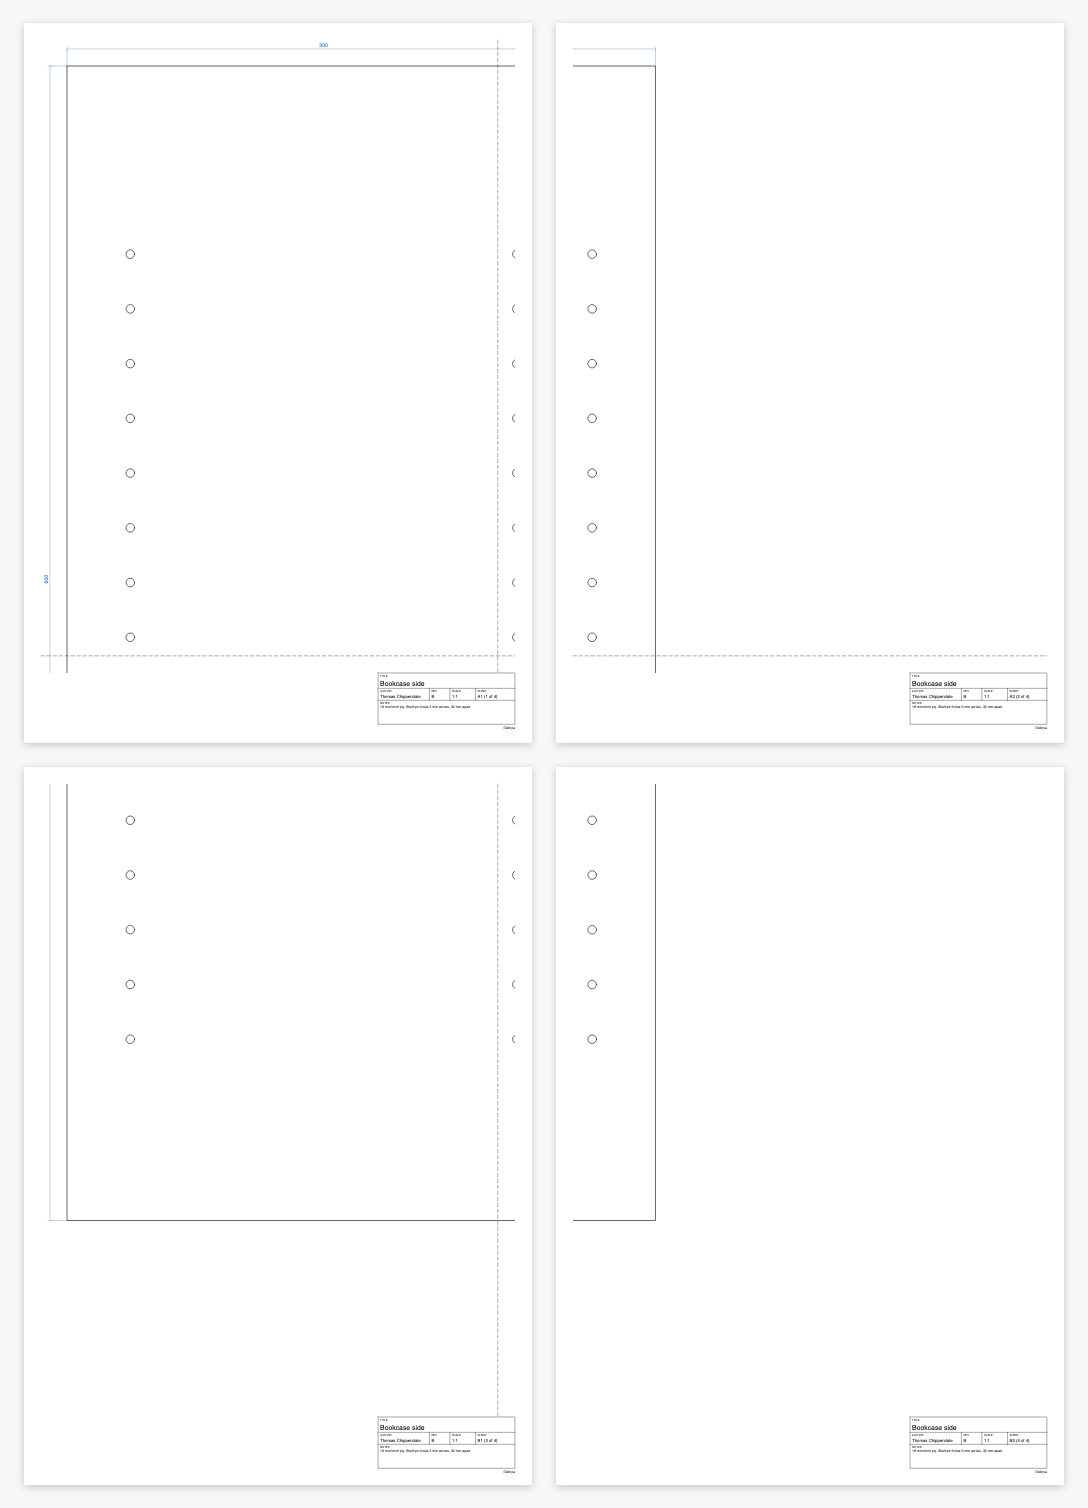
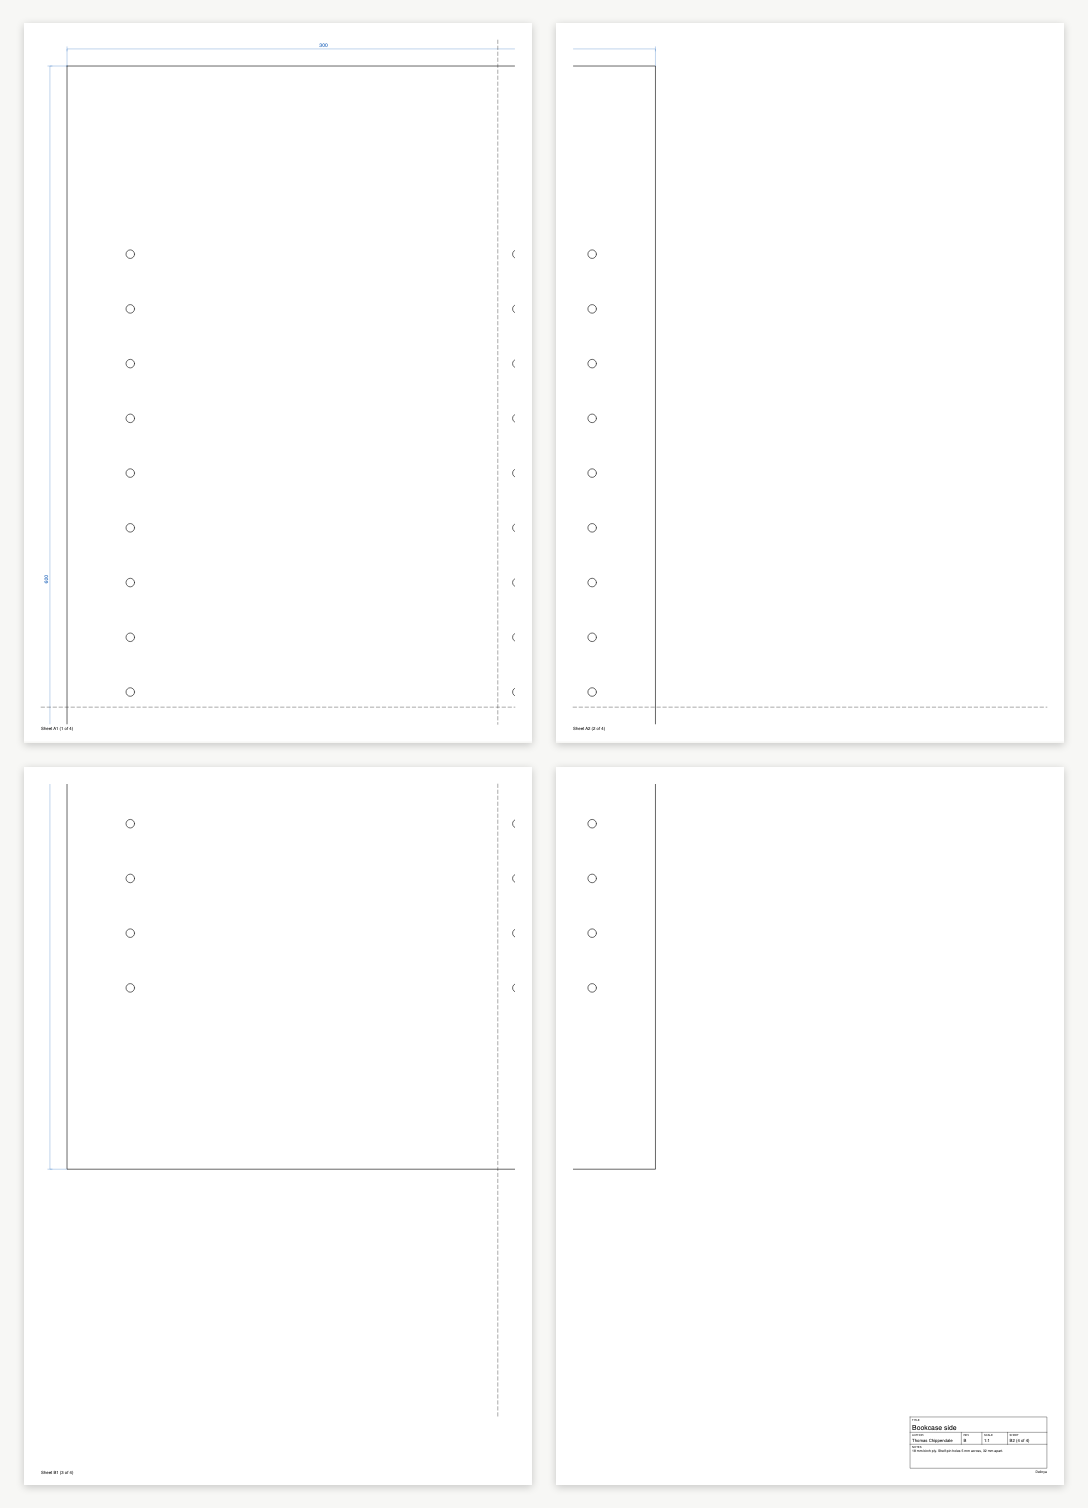
Print: title block and check ruler on the last tiled sheet only
Tiled, the footer band (title block, check ruler, "Delinya") goes on the
last sheet, bottom right, where it sits on the assembled drawing; the
other sheets carry their label in the bottom margin. Each tile has its
own drawing area: rows above the bottom one use the whole printable
height, so tall drawings can need fewer sheets, and the bottom row keeps
the band clear. The dialog's hint says what goes on the last sheet; the
printing docs, the full-size template how-to and the tiled screenshot
follow.

diff --git a/src/output/compose.ts b/src/output/compose.ts
@@ -2,11 +2,13 @@
 //
 // The drawing becomes primitives once, sized so text and ticks come out
 // at STYLE sizes on paper, then each tile maps them into its drawing area.
-// Every page also gets furniture: a check ruler and title block in the
-// footer band (each optional; no band when both are off), a small
-// "Delinya" in the margin under the title block, and dashed guides where
-// it overlaps its neighbours. Without a title block there's no "Delinya",
-// and tiled sheets get their label in the bottom margin instead.
+// Pages also get furniture: a check ruler and title block in the footer
+// band (each optional; no band when both are off), a small "Delinya" in
+// the margin under the title block, and dashed guides where a page overlaps
+// its neighbours. Tiled, the band goes on the last sheet only (bottom right,
+// where the title block sits on the assembled drawing) and every other
+// sheet has its label in the bottom margin, as the last does too without a
+// title block.
 
 import { type Bounds, type EntityId, type Path, type PathElement, type Point, type Resolved, arc, cubic, isVisible, segment } from "../model";
 import { planPages } from "./layout";
@@ -25,18 +27,22 @@ export function composePages(resolved: Resolved, options: PrintOptions, info: Ti
   if (!b) return null;
   const footer = options.ruler || options.titleBlock ? FOOTER_HEIGHT : 0;
   const plan = planPages(pad(b, STYLE.padding / scale), { ...options, footer });
-  const pages = plan.tiles.map((tile, i): PageDrawing => ({
-    width: plan.width,
-    height: plan.height,
-    clip: { ...plan.area },
-    content: prims.map((p) => toPaper(p, tile.window, plan.area, scale)),
-    furniture: [
-      ...(options.ruler ? checkRuler(plan) : []),
-      ...(options.titleBlock ? [...titleBlock(plan, info, sheetName(plan, tile, i)), watermark(plan)]
-        : plan.tiles.length > 1 ? [sheetLabel(plan, sheetName(plan, tile, i))] : []),
-      ...overlapGuides(plan, tile),
-    ],
-  }));
+  const n = plan.tiles.length;
+  const pages = plan.tiles.map((tile, i): PageDrawing => {
+    const last = i === n - 1, sheet = sheetName(plan, tile, i);
+    return {
+      width: plan.width,
+      height: plan.height,
+      clip: { ...tile.area },
+      content: prims.map((p) => toPaper(p, tile.window, tile.area, scale)),
+      furniture: [
+        ...(last && options.ruler ? checkRuler(plan) : []),
+        ...(last && options.titleBlock ? [...titleBlock(plan, info, sheet), watermark(plan)]
+          : n > 1 ? [sheetLabel(plan, sheet)] : []),
+        ...overlapGuides(plan, tile),
+      ],
+    };
+  });
   return { plan, pages };
 }
 
@@ -164,7 +170,7 @@ function watermark(plan: PagePlan): TextPrim {
 /** The watermark's text size and its clearance below the block, mm; the sheet label shares the gap. */
 const WATERMARK = { size: 2, gap: 1.5 };
 
-/** A tiled sheet's label, in the page margin at the bottom left, when there's no title block to carry it. */
+/** A tiled sheet's label, in the page margin at the bottom left, where there's no title block to carry it. */
 function sheetLabel(plan: PagePlan, sheet: string): TextPrim {
   const size = STYLE.footerTextSize, bottom = plan.height - PAGE_MARGIN;
   return furnitureText([PAGE_MARGIN, bottom + WATERMARK.gap + 0.75 * size], `Sheet ${sheet}`, size);
@@ -223,7 +229,7 @@ function sheetName(plan: PagePlan, tile: PageTile, index: number): string {
 
 /** Dashed lines where the next tile right or down starts, to align sheets on. */
 function overlapGuides(plan: PagePlan, tile: PageTile): Primitive[] {
-  const { x, y, width, height } = plan.area;
+  const { x, y, width, height } = tile.area;
   const out: Primitive[] = [];
   if (tile.col < plan.cols - 1) {
     const gx = x + width - TILE_OVERLAP;

diff --git a/tests/output/layout.test.ts b/tests/output/layout.test.ts
@@ -11,9 +11,9 @@ const box = (w: number, h: number, x = 0, y = 0): Bounds => ({ minX: x, minY: y,
 function expectCovers(plan: PagePlan, b: Bounds) {
   expect(plan.tiles.length).toBe(plan.rows * plan.cols);
   for (const t of plan.tiles) {
-    // Every window fills the drawing area exactly at this scale.
-    expect((t.window.maxX - t.window.minX) * plan.scale).toBeCloseTo(plan.area.width);
-    expect((t.window.maxY - t.window.minY) * plan.scale).toBeCloseTo(plan.area.height);
+    // Every window fills its page's drawing area exactly at this scale.
+    expect((t.window.maxX - t.window.minX) * plan.scale).toBeCloseTo(t.area.width);
+    expect((t.window.maxY - t.window.minY) * plan.scale).toBeCloseTo(t.area.height);
   }
   expect(Math.min(...plan.tiles.map((t) => t.window.minX))).toBeLessThanOrEqual(b.minX + 1e-9);
   expect(Math.min(...plan.tiles.map((t) => t.window.minY))).toBeLessThanOrEqual(b.minY + 1e-9);
@@ -48,10 +48,10 @@ describe("planPages", () => {
   it("leaves the margins and the footer band out of the drawing area", () => {
     const portrait = planPages(box(10, 10), { paper: A4, orientation: "portrait", scale: 1 });
     expect(portrait).toMatchObject({ width: 210, height: 297, orientation: "portrait" });
-    expect(portrait.area).toEqual({ x: PAGE_MARGIN, y: PAGE_MARGIN, width: 190, height: 297 - 2 * PAGE_MARGIN - FOOTER_HEIGHT });
+    expect(portrait.tiles[0]!.area).toEqual({ x: PAGE_MARGIN, y: PAGE_MARGIN, width: 190, height: 297 - 2 * PAGE_MARGIN - FOOTER_HEIGHT });
     const landscape = planPages(box(10, 10), { paper: A4, orientation: "landscape", scale: 1 });
     expect(landscape).toMatchObject({ width: 297, height: 210, orientation: "landscape" });
-    expect(landscape.area).toEqual({ x: PAGE_MARGIN, y: PAGE_MARGIN, width: 277, height: 210 - 2 * PAGE_MARGIN - FOOTER_HEIGHT });
+    expect(landscape.tiles[0]!.area).toEqual({ x: PAGE_MARGIN, y: PAGE_MARGIN, width: 277, height: 210 - 2 * PAGE_MARGIN - FOOTER_HEIGHT });
   });
 
   it("centres a drawing that fits on one page", () => {
@@ -81,9 +81,28 @@ describe("planPages", () => {
     const plan = planPages(b, { paper: A4, orientation: "portrait", scale: 1 });
     expect([plan.rows, plan.cols]).toEqual([3, 3]);
     expect(plan.tiles[3]).toMatchObject({ row: 1, col: 0, label: "B1" });
-    expect(plan.tiles[3]!.window.minY).toBeCloseTo(237);
+    // Rows above the bottom are the full 277 mm high, so the next starts 267 mm on.
+    expect(plan.tiles[3]!.window.minY).toBeCloseTo(267);
     expect(plan.tiles[8]!.label).toBe("C3");
     expectCovers(plan, b);
+  });
+
+  it("keeps the footer band in the bottom row only: the rows above get the full height", () => {
+    const plan = planPages(box(400, 600), { paper: A4, orientation: "portrait", scale: 1 });
+    const full = 297 - 2 * PAGE_MARGIN;
+    for (const t of plan.tiles) expect(t.area.height).toBe(t.row < plan.rows - 1 ? full : full - FOOTER_HEIGHT);
+    // Consecutive rows still overlap by 10 mm.
+    const ys = [0, 3, 6].map((i) => plan.tiles[i]!.window);
+    expect(ys[0]!.maxY - ys[1]!.minY).toBeCloseTo(10);
+    expect(ys[1]!.maxY - ys[2]!.minY).toBeCloseTo(10);
+  });
+
+  it("needs fewer sheets when only the bottom row keeps the band clear", () => {
+    // 500 mm tall: three rows if every row lost 30 mm to the band (247 + 2 × 237 ≥ 500), two now (247 + 267 ≥ 500).
+    expect(planPages(box(100, 500), { paper: A4, orientation: "portrait", scale: 1 }).rows).toBe(2);
+    // Without a band every row is full height.
+    const bare = planPages(box(100, 500), { paper: A4, orientation: "portrait", scale: 1, footer: 0 });
+    for (const t of bare.tiles) expect(t.area.height).toBe(297 - 2 * PAGE_MARGIN);
   });
 
   it("scales the drawing onto the paper", () => {

diff --git a/src/output/layout.ts b/src/output/layout.ts
@@ -2,8 +2,11 @@
 //
 // A drawing that fits is centred on one page. A bigger one is tiled into
 // a grid of pages whose windows overlap by TILE_OVERLAP on paper, so the
-// sheets can be lined up and taped. Everything here is pure arithmetic on
-// bounds; compose.ts draws the pages.
+// sheets can be lined up and taped. The footer band (title block, check
+// ruler) goes on the last sheet only, so the rows above the bottom one get
+// the whole printable height; the bottom row keeps the band clear on all
+// its sheets, since a row's sheets share one slice of the drawing.
+// Everything here is pure arithmetic on bounds; compose.ts draws the pages.
 
 import type { Bounds } from "../model";
 import { SCALES } from "./paper";
@@ -33,32 +36,34 @@ export function fitScale(bounds: Bounds, paper: Paper, orientation: Orientation 
 
 function planOriented(bounds: Bounds, paper: Paper, orientation: Orientation, scale: number, footer: number): PagePlan {
   const [width, height] = orientation === "portrait" ? [paper.width, paper.height] : [paper.height, paper.width];
-  const area: Rect = {
-    x: PAGE_MARGIN, y: PAGE_MARGIN,
-    width: width - 2 * PAGE_MARGIN, height: height - 2 * PAGE_MARGIN - footer,
-  };
-  const xs = windows(bounds.minX, bounds.maxX, area.width, scale);
-  const ys = windows(bounds.minY, bounds.maxY, area.height, scale);
+  const areaWidth = width - 2 * PAGE_MARGIN, full = height - 2 * PAGE_MARGIN;
+  const xs = windows(bounds.minX, bounds.maxX, areaWidth, areaWidth, scale);
+  const ys = windows(bounds.minY, bounds.maxY, full, full - footer, scale);
   const tiles: PageTile[] = [];
   ys.forEach(([minY, maxY], row) => xs.forEach(([minX, maxX], col) => {
-    tiles.push({ row, col, label: `${rowLetters(row)}${col + 1}`, window: { minX, minY, maxX, maxY } });
+    const area: Rect = { x: PAGE_MARGIN, y: PAGE_MARGIN, width: areaWidth, height: row < ys.length - 1 ? full : full - footer };
+    tiles.push({ row, col, label: `${rowLetters(row)}${col + 1}`, window: { minX, minY, maxX, maxY }, area });
   }));
-  return { width, height, orientation, scale, rows: ys.length, cols: xs.length, area, tiles };
+  return { width, height, orientation, scale, rows: ys.length, cols: xs.length, tiles };
 }
 
-/** Model-space windows along one axis, each `size` paper mm long. */
-function windows(min: number, max: number, size: number, scale: number): [number, number][] {
+/**
+ * Model-space windows along one axis: `size` paper mm long, but the last
+ * `last` long (the bottom row, which keeps the footer band clear). One
+ * window is centred on the drawing; several start at its edge and overlap
+ * by TILE_OVERLAP.
+ */
+function windows(min: number, max: number, size: number, last: number, scale: number): [number, number][] {
   const needed = (max - min) * scale;
-  const span = size / scale;
-  if (needed <= size + 1e-9) {
-    const c = (min + max) / 2;
-    return [[c - span / 2, c + span / 2]];
+  if (needed <= last + 1e-9) {
+    const c = (min + max) / 2, half = last / scale / 2;
+    return [[c - half, c + half]];
   }
   const step = size - TILE_OVERLAP;
-  const count = 1 + Math.ceil((needed - size) / step);
+  const count = 1 + Math.ceil((needed - last) / step - 1e-9);
   return Array.from({ length: count }, (_, i) => {
     const start = min + (i * step) / scale;
-    return [start, start + span];
+    return [start, start + (i === count - 1 ? last : size) / scale];
   });
 }
 

diff --git a/tests/output/compose.test.ts b/tests/output/compose.test.ts
@@ -47,7 +47,7 @@ describe("composePages", () => {
     expect(out.pages.length).toBe(1);
     const page = out.pages[0]!;
     expect([page.width, page.height]).toEqual([210, 297]);
-    expect(page.clip).toEqual(out.plan.area);
+    expect(page.clip).toEqual(out.plan.tiles[0]!.area);
     expect(page.clip).toEqual({ x: 10, y: 10, width: 190, height: 297 - 20 - FOOTER_HEIGHT });
   });
 
@@ -124,9 +124,28 @@ describe("composePages", () => {
     expect(guideXs[0]).toEqual([10 + 190 - 10]);
     expect(guideXs[1]).toEqual([10 + 190 - 10]);
     expect(guideXs[2]).toEqual([]);
-    const sheet2 = blockTexts(out.pages[1]!).map((t) => t.text).join("\n");
-    expect(sheet2).toContain("A2");
-    expect(sheet2).toContain("2 of 3");
+    // The title block is on the last sheet only, carrying its label.
+    const last = blockTexts(out.pages[2]!).map((t) => t.text).join("\n");
+    expect(last).toContain("A3 (3 of 3)");
+    expect(blockTexts(out.pages[1]!)).toHaveLength(0);
+  });
+
+  it("puts the footer band on the last sheet only, the others labelled in the margin", () => {
+    const out = composePages(rect(400, 600), opts(), INFO)!;
+    const n = out.pages.length;
+    expect(n).toBeGreaterThan(3);
+    out.pages.forEach((page, i) => {
+      const texts = textsOf(page.furniture).map((t) => t.text);
+      const last = i === n - 1;
+      expect(texts.includes("TITLE"), `sheet ${i + 1}`).toBe(last);
+      expect(texts.some((t) => /100 mm/.test(t)), `sheet ${i + 1}`).toBe(last);
+      expect(texts.includes("Delinya"), `sheet ${i + 1}`).toBe(last);
+      expect(texts.some((t) => t.startsWith("Sheet ")), `sheet ${i + 1}`).toBe(!last);
+    });
+    // Above the bottom row the drawing area runs down to the margin; in it, it stops above the band.
+    const { rows, cols } = out.plan;
+    expect(out.pages[0]!.clip.height).toBe(297 - 20);
+    expect(out.pages[(rows - 1) * cols]!.clip.height).toBe(297 - 20 - FOOTER_HEIGHT);
   });
 
   describe("optional ruler and title block", () => {
@@ -175,8 +194,10 @@ describe("composePages", () => {
         expect(label!.at[1] - 0.75 * label!.size).toBeGreaterThan(page.height - PAGE_MARGIN);
         expect(label!.at[1]).toBeLessThan(page.height);
       });
-      // With the block, the label is in the block instead.
-      expect(sheetLabels(composePages(rect(400, 100), opts(), INFO)!.pages[1]!)).toHaveLength(0);
+      // With the block, the last sheet's label is in the block instead.
+      const pages = composePages(rect(400, 100), opts(), INFO)!.pages;
+      expect(sheetLabels(pages[1]!)).toHaveLength(1);
+      expect(sheetLabels(pages[2]!)).toHaveLength(0);
     });
   });
 

diff --git a/tests/output/watermark.test.ts b/tests/output/watermark.test.ts
@@ -11,12 +11,15 @@ const INFO: TitleInfo = { title: "Bench", author: "PRC", revision: "C", notes: "
 const opts: PrintOptions = { paper: A4, orientation: "portrait", scale: 1, dimensions: false, ruler: false, titleBlock: true };
 
 describe("print watermark", () => {
-  it("puts a small \"Delinya\" just below the title block, right-aligned with it, on every page", () => {
-    // Big enough to tile onto several sheets.
+  it("puts a small \"Delinya\" just below the title block, right-aligned with it, on the sheet that has the block", () => {
+    // Big enough to tile onto several sheets: the block, and so the mark, is on the last.
     const r = resolve(doc(addRect("a", { x: 0, y: 0, width: 500, height: 300 })));
     const { pages } = composePages(r, opts, INFO)!;
     expect(pages.length).toBeGreaterThan(1);
-    for (const page of pages) {
+    for (const page of pages.slice(0, -1)) {
+      expect(page.furniture.some((p) => p.kind === "text" && p.text === "Delinya")).toBe(false);
+    }
+    for (const page of pages.slice(-1)) {
       const right = page.width - PAGE_MARGIN, bottom = page.height - PAGE_MARGIN;
       const marks = page.furniture.filter((p): p is TextPrim => p.kind === "text" && p.text === "Delinya");
       expect(marks).toHaveLength(1);
@@ -36,7 +39,7 @@ describe("print watermark", () => {
     const r = resolve(doc(addRect("a", { x: 0, y: 0, width: 500, height: 300 })));
     const marks = (o: PrintOptions) => composePages(r, o, INFO)!.pages
       .flatMap((page) => page.furniture.filter((p): p is TextPrim => p.kind === "text" && p.text === "Delinya"));
-    expect(marks(opts).length).toBeGreaterThan(1);
+    expect(marks(opts)).toHaveLength(1);
     expect(marks({ ...opts, titleBlock: false })).toHaveLength(0);
     expect(marks({ ...opts, titleBlock: false, ruler: true })).toHaveLength(0);
   });

diff --git a/src/panels/OutputDialog.tsx b/src/panels/OutputDialog.tsx
@@ -53,6 +53,13 @@ function saveStored(o: Choices): void {
   } catch { /* private mode: not remembered */ }
 }
 
+/** What a tiled print comes to: sheets, overlap, labels, and what goes on the last sheet alone. */
+function tiledHint(rows: number, cols: number, o: Choices): string {
+  const band = [o.titleBlock && "title block", o.ruler && "check ruler"].filter(Boolean).join(" and ");
+  const last = band ? `; the ${band} ${o.titleBlock && o.ruler ? "go" : "goes"} on the last` : "";
+  return `${rows * cols} sheets (${rows} × ${cols}), labelled A1, A2… and overlapping 10 mm for taping${last}.`;
+}
+
 /** The largest standard scale that puts the whole drawing on one sheet. */
 function fitToSheet(resolved: Resolved, o: PrintOptions, info: TitleInfo): number {
   return SCALES.find((scale) => composePages(resolved, { ...o, scale }, info)?.pages.length === 1) ?? SCALES[SCALES.length - 1]!;
@@ -152,9 +159,7 @@ export function OutputDialog() {
                 100 mm check ruler
               </label>
               <p className="hint">
-                {plan
-                  ? sheets === 1 ? "One sheet." : `${sheets} sheets (${plan.rows} × ${plan.cols}), overlapping 10 mm for taping. Labels A1, A2… ${options.titleBlock ? "in each title block" : "at the foot of each sheet"}.`
-                  : "Nothing to print yet."}
+                {plan ? sheets === 1 ? "One sheet." : tiledHint(plan.rows, plan.cols, options) : "Nothing to print yet."}
               </p>
               <p className="hint">Print at 100% / “Actual size”{options.ruler ? ", then check the ruler measures 100 mm." : "."}</p>
               <div className="buttons">

diff --git a/src/output/types.ts b/src/output/types.ts
@@ -113,6 +113,11 @@ export interface PageTile {
   label: string;
   /** The model-space region this page shows in its drawing area. */
   window: Bounds;
+  /**
+   * This page's drawing area, paper mm from the top-left corner: the whole
+   * printable height above the bottom row, short of the footer band in it.
+   */
+  area: Rect;
 }
 
 export interface PagePlan {
@@ -123,9 +128,7 @@ export interface PagePlan {
   scale: number;
   rows: number;
   cols: number;
-  /** Drawing area on every page, paper mm from the top-left corner. */
-  area: Rect;
-  /** Row-major: A1, A2, …, B1, … */
+  /** Row-major: A1, A2, …, B1, …; the last, bottom right, carries the footer band. */
   tiles: PageTile[];
 }
 

diff --git a/plans/status.md b/plans/status.md
@@ -909,7 +909,9 @@ through `useSyncExternalStore`.
   `--dimension` colour from the same constant, so screen and paper match.
 - `planPages` lays the drawing onto sheets at a scale: margins 10 mm, a
   footer band (`footer`, 30 mm by default), tiles overlapping 10 mm and
-  labelled A1, A2, … B1.
+  labelled A1, A2, … B1. Each tile has its own drawing `area`: the band is
+  kept clear only in the bottom row (the rows above get the whole
+  printable height), since tiled the band goes on the last sheet alone.
 - `composePages` gives each sheet in paper mm: the drawing (clipped to
   the area), overlap guides, and in the 30 mm footer band an optional
   100 mm check ruler bottom left (`PrintOptions.ruler`) and an optional
@@ -917,8 +919,11 @@ through `useSyncExternalStore`.
   revision, scale, sheet, notes; title falls back to the file name).
   With both off there is no band and the drawing area reaches the bottom
   margin. With the block, a small 2 mm "Delinya" sits right-aligned just
-  below it, in the page margin; without the block there's no "Delinya",
-  and tiled sheets get "Sheet A2 (2 of 3)" at the bottom left of the margin.
+  below it, in the page margin; without the block there's no "Delinya".
+  Tiled, the band (block, ruler, "Delinya") is on the last sheet only,
+  bottom right, where it sits on the assembled drawing; every other sheet,
+  and the last without a block, has "Sheet A2 (2 of 3)" at the bottom
+  left of the margin.
 - `pageToSvg` (preview and print), `exportPdf` (hand-written PDF 1.4,
   standard Helvetica, no dependencies), `exportSvg` (1:1 mm) and
   `exportDxf` (R12, mm, y flipped, shapes only; rects become closed
@@ -1326,15 +1331,6 @@ reference generator and screenshot scripts.
 9. Selection panel: replace the Delete button at the bottom with a bin
    icon button at the top right of the panel. Retake the docs screenshots
    that show the panel after (`getting-started`, `drawing-shapes`).
-10. Tiled printing: the footer band (title block, check ruler and the
-    "Delinya" under the block) only on the last sheet, bottom right, where
-    it sits on the assembled drawing; every other sheet gets just the
-    "Sheet A1 (1 of 4)" margin label. Rows above the bottom one then use
-    the full sheet height (so a tall drawing may need fewer sheets); the
-    bottom row keeps the band clear on all its sheets, since a row's sheets
-    share one slice of the drawing. Needs rows of uneven height in
-    `planPages`. Update the printing docs and retake the
-    `printing-and-export` screenshots after.
 
 ## Gotchas for whoever picks this up
 
